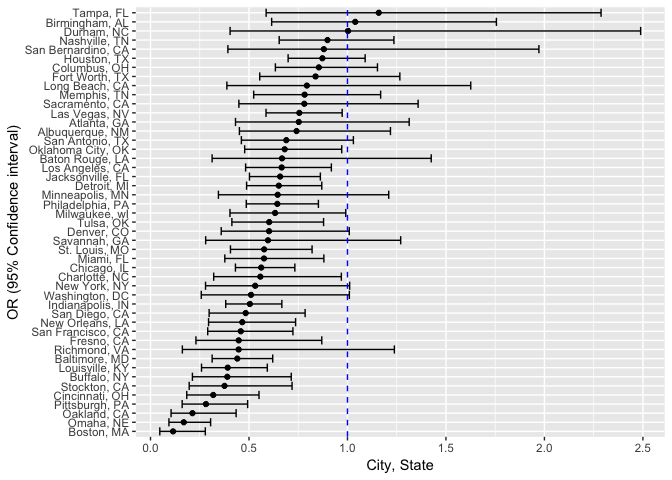
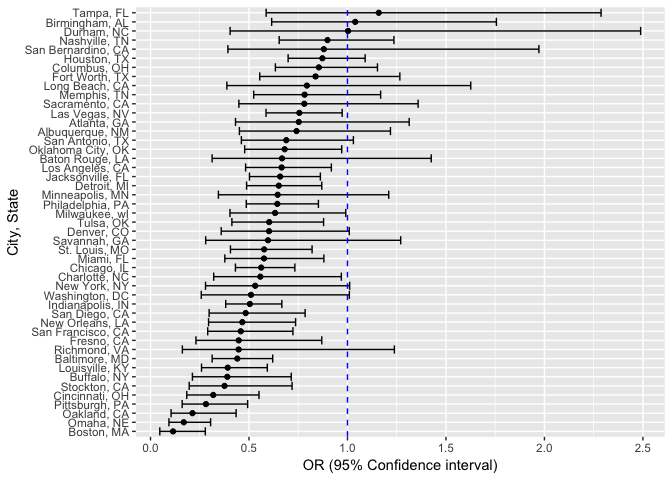
final

Changed region(s): [[0.4375, 0.9375, 0.75, 1.0], [0.0, 0.25, 0.0312, 0.6562]]

diff --git a/p8105_hw6_ay2416.md b/p8105_hw6_ay2416.md
@@ -7,14 +7,14 @@ Amin Yakubu
 library(tidyverse)
 ```
 
-    ## ── Attaching packages ───────────────────────────────────────────────────────────────────────────────────────────────────── tidyverse 1.2.1 ──
+    ## ── Attaching packages ───────────────────────────────────────────────────────────────────────────────────────────── tidyverse 1.2.1 ──
 
     ## ✔ ggplot2 3.1.0     ✔ purrr   0.2.5
     ## ✔ tibble  1.4.2     ✔ dplyr   0.7.8
     ## ✔ tidyr   0.8.1     ✔ stringr 1.3.1
     ## ✔ readr   1.1.1     ✔ forcats 0.3.0
 
-    ## ── Conflicts ──────────────────────────────────────────────────────────────────────────────────────────────────────── tidyverse_conflicts() ──
+    ## ── Conflicts ──────────────────────────────────────────────────────────────────────────────────────────────── tidyverse_conflicts() ──
     ## ✖ dplyr::filter() masks stats::filter()
     ## ✖ dplyr::lag()    masks stats::lag()
 
@@ -116,8 +116,8 @@ ggplot(fit_logistic_cities, aes(x = city_state, y = OR )) +
   coord_flip() +
   geom_hline(aes(yintercept = 1.00), linetype = "dashed", color = "blue") + 
   labs(
-    x = "OR (95% Confidence interval)",
-    y = "City, State"
+    y = "OR (95% Confidence interval)",
+    x = "City, State"
   )
 ```
 
